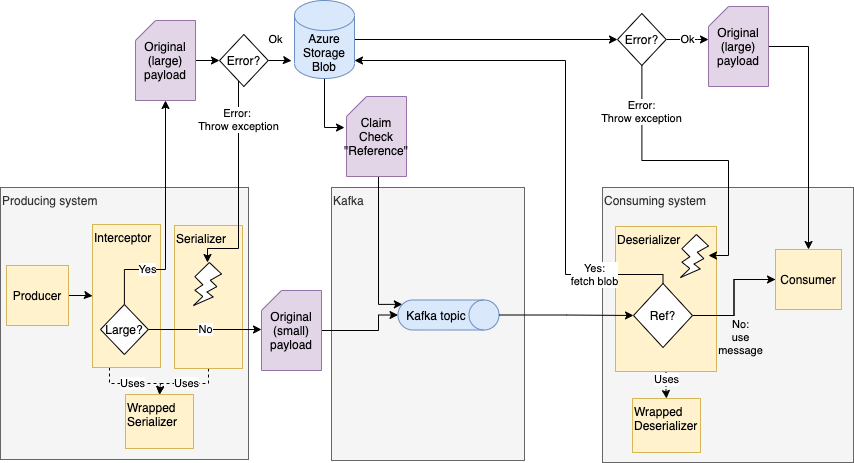
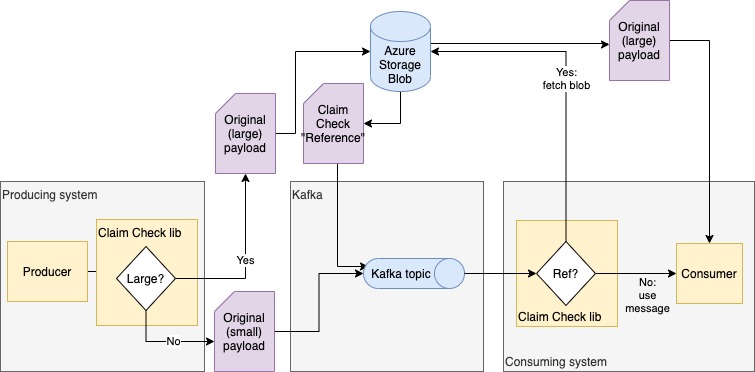
docs: add back simpler diagram, refer to detailed one in link

diff --git a/README.md b/README.md
@@ -4,6 +4,8 @@ Library implementing the Claim Check pattern for use with Kafka and Azure Blob S
 ## Overview design
 ![Claim check interceptor design diagram](/docs/claim-check-blob.png)
 
+[Detailed component diagram](/docs/claim-check-blob-detailed.png)
+
 ## Usage
 Example usage for the `claim-check-interceptors-azure` (Azure SDK v12) backend. See also the 
 [Note about Azure SDK versions](claim-check-interceptors-azure).
